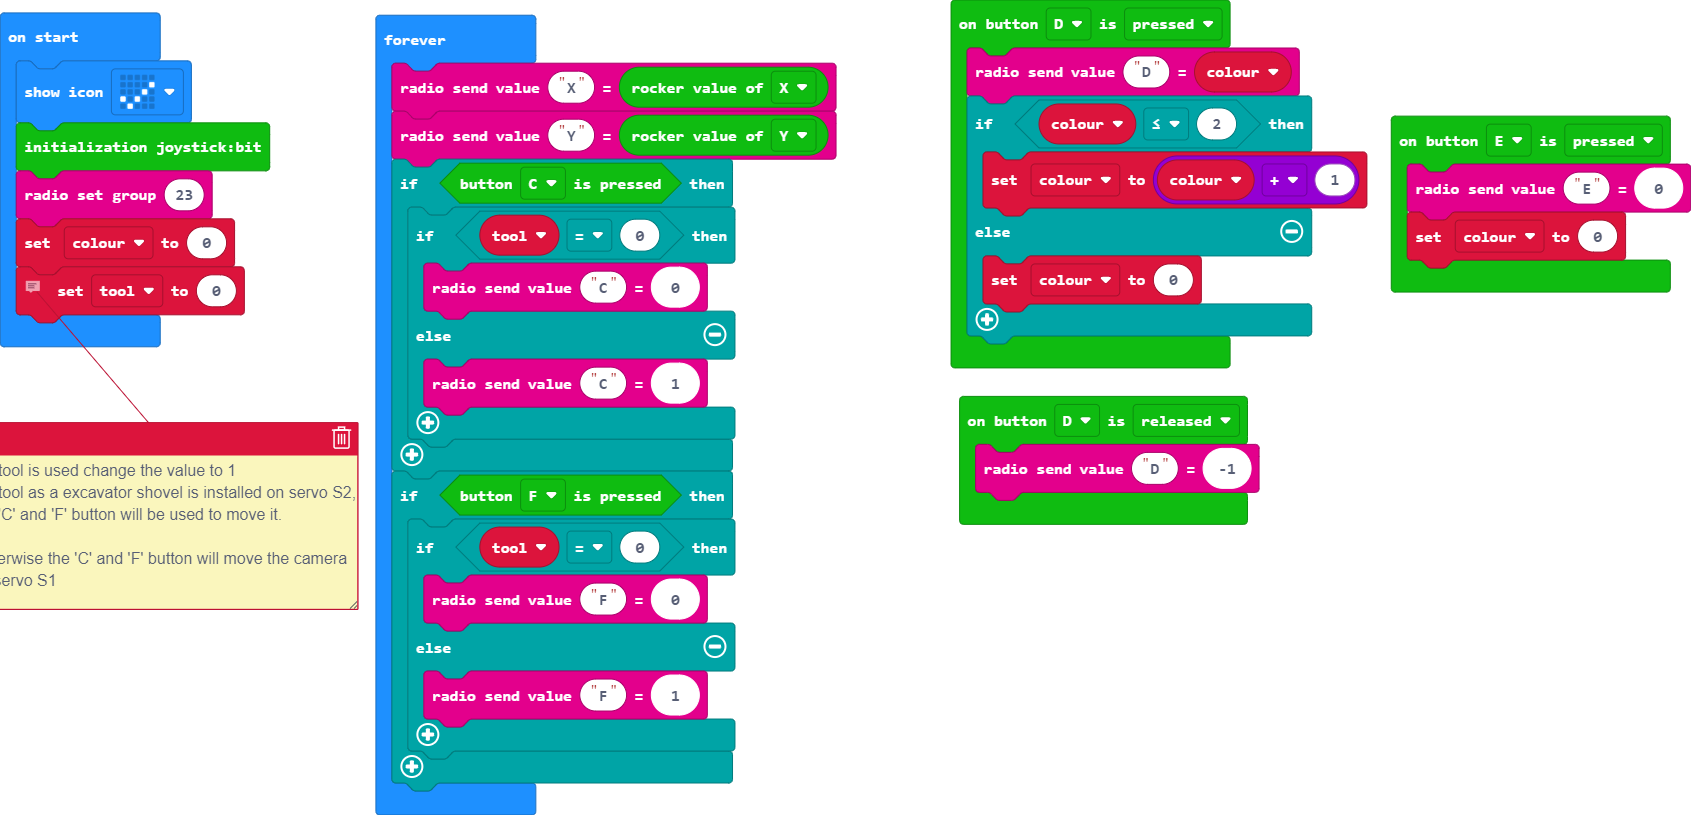
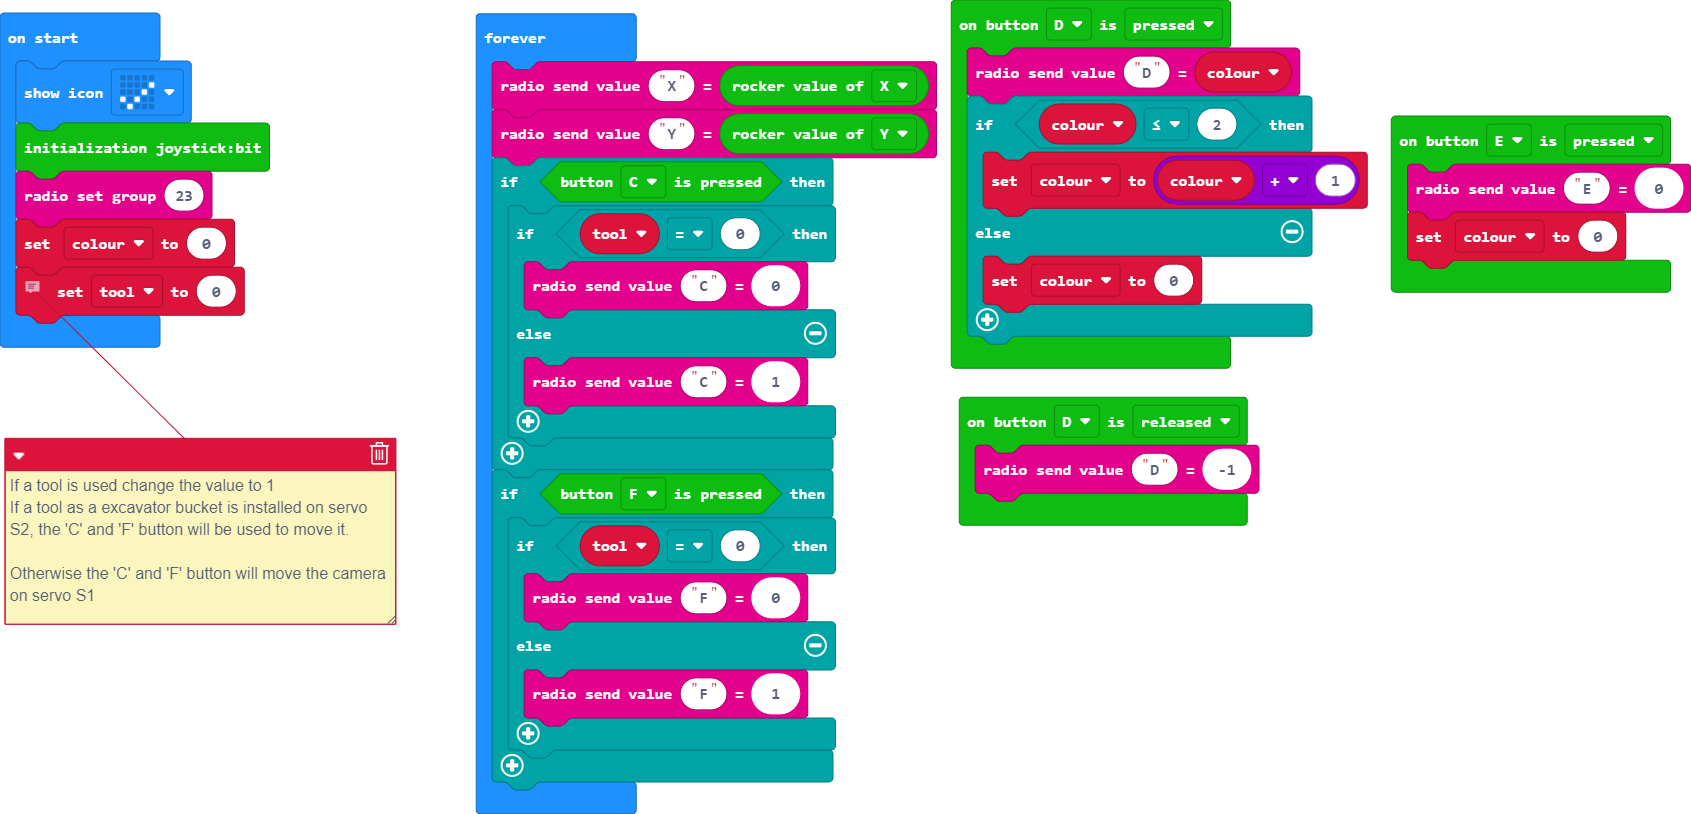
Update main.blocks, main.ts

diff --git a/main.ts b/main.ts
@@ -19,7 +19,7 @@ joystickbit.initJoystickBit()
 radio.setGroup(23)
 colour = 0
 // If a tool is used change the value to 1
-// If a tool as a excavator shovel is installed on servo S2, the 'C' and 'F' button will be used to move it.
+// If a tool as a excavator bucket is installed on servo S2, the 'C' and 'F' button will be used to move it.
 // 
 // Otherwise the 'C' and 'F' button will move the camera on servo S1
 let tool = 0
